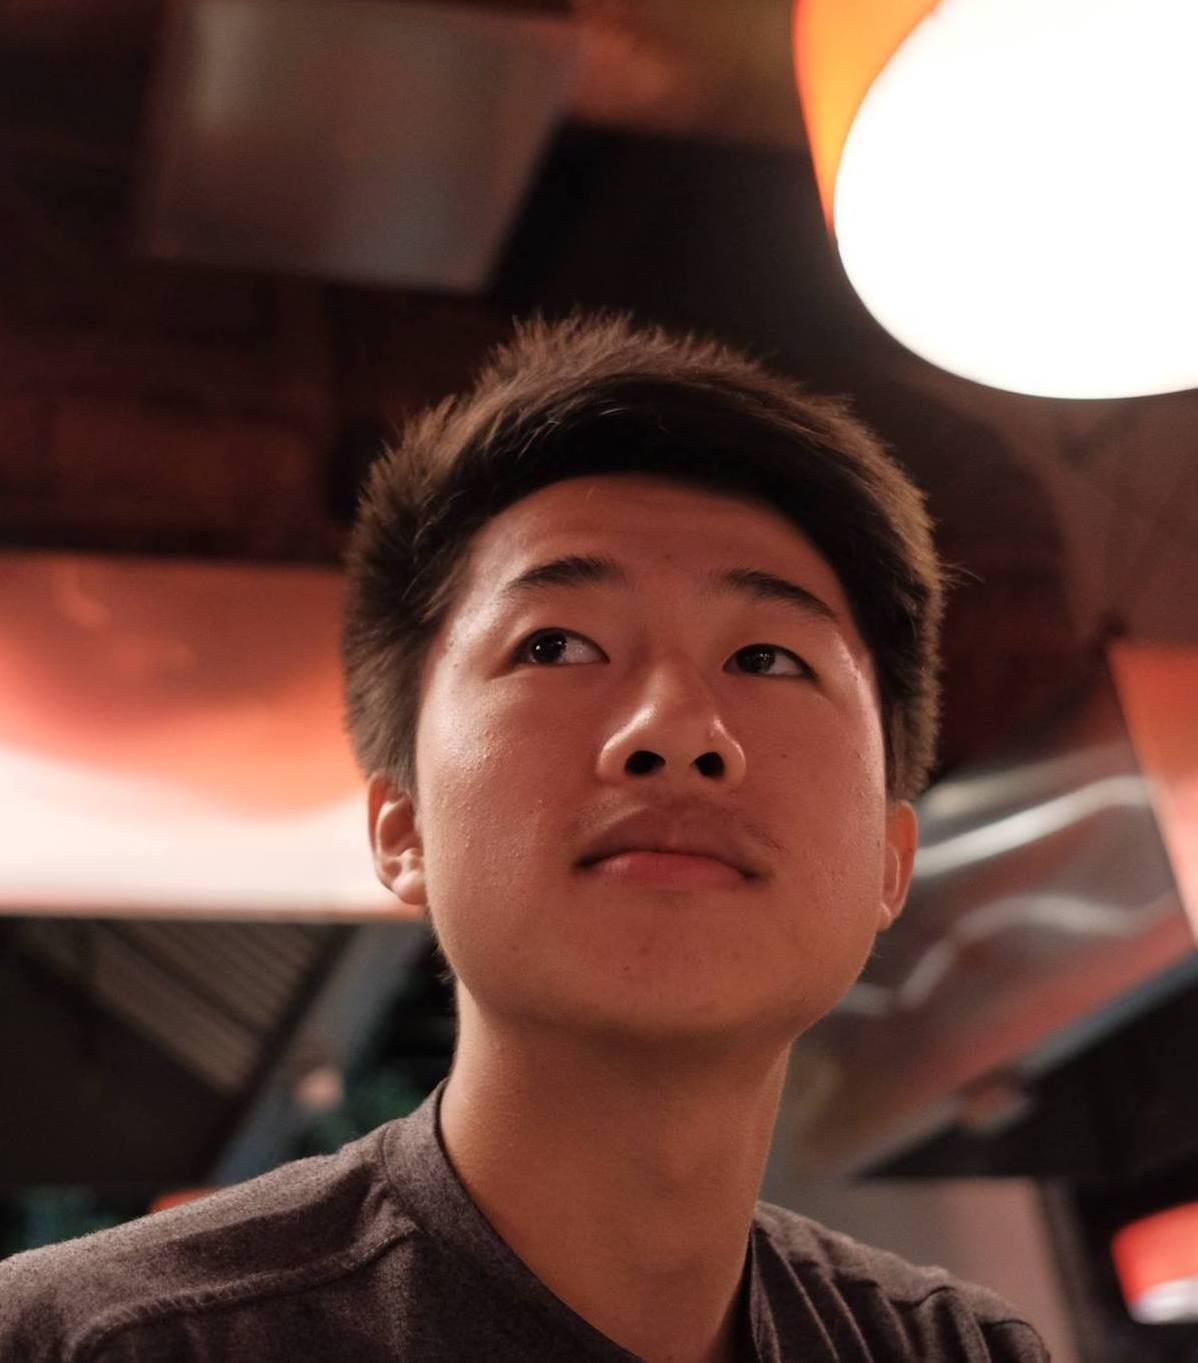
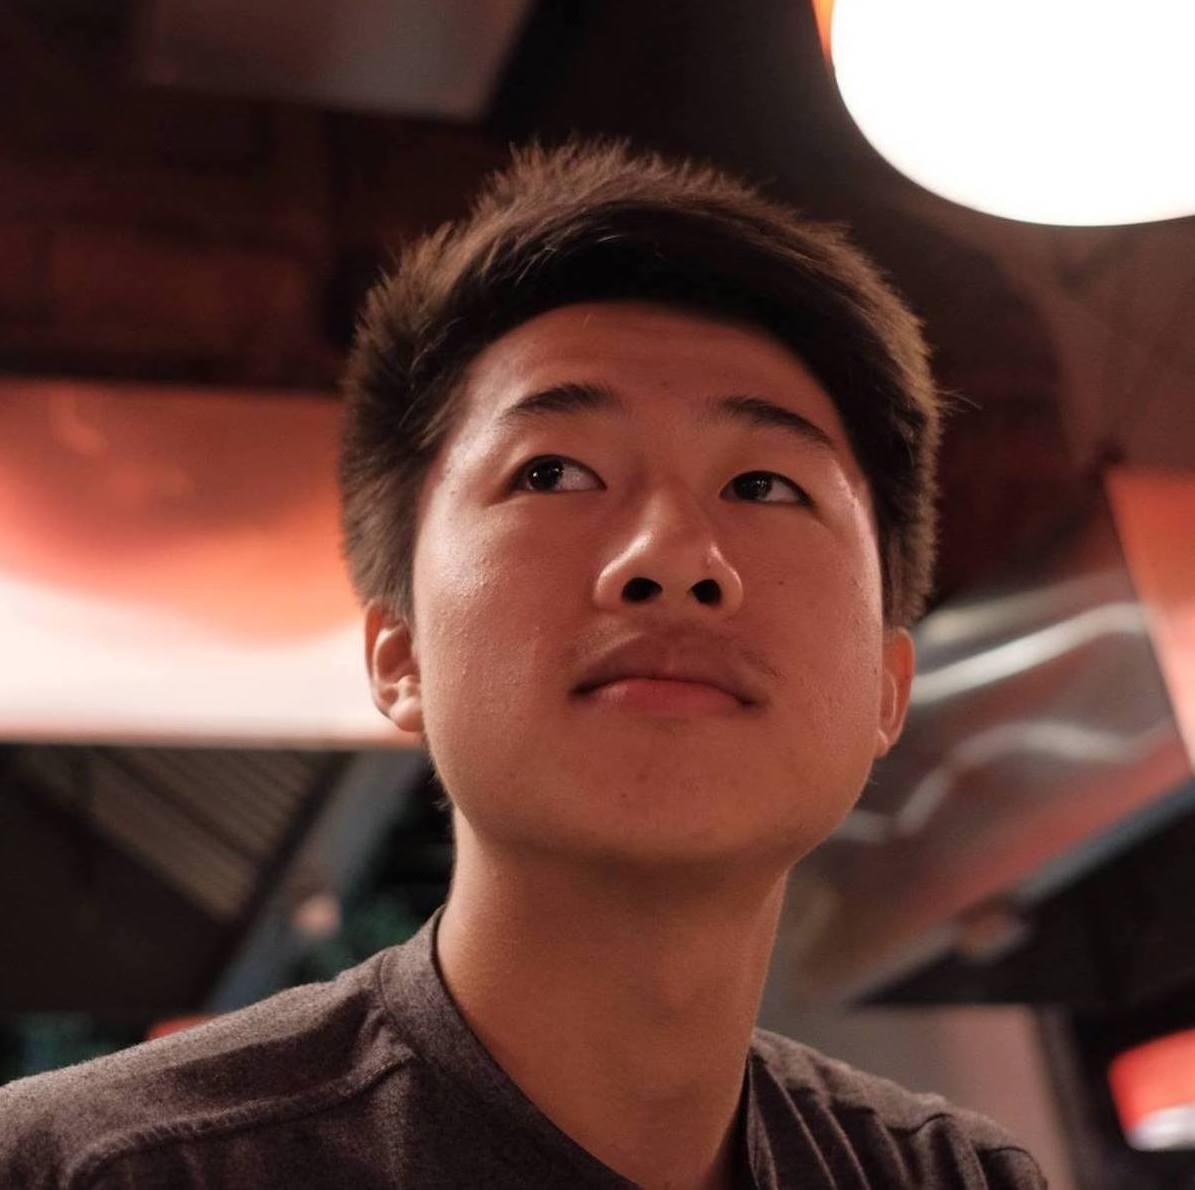
Implemented a sea background and profile picture with a circle border

diff --git a/CSS/style.css b/CSS/style.css
@@ -3,52 +3,10 @@ body {
 	
 }
 
+/* No gaps in between text and photos */
 body, html {
 	height: 100%;
 	margin: 0;
-}
-
-.background {
-	position: relative;
-	text-align: center;
-	color: white;
-}
-
-/* Wilson's Profile Picture Class */
-.profilepic {
-	position: absolute;
-	top: 25%;
-	left: 50%;
-	transform: translate(-50%, -50%);
-}
-
-/* Wilson Chung Header Custom Font */
-
-h1 {
-	font-size: 50px;
-	font-family: 'Roboto', sans-serif;
-	text-align: center;
-}
-
-/* Wilson Chung Header Class */
-.center {
-	position: absolute;
-	top: 50%;
-	left: 50%;
-	transform: translate(-50%, -50%);
-}
-
-.bg { 
-    /* The image used */
-    background-image: url('assets/Pictures/SeaBackground.jpg');
-
-    /* Full height */
-    height: 100%; 
-
-    /* Center and scale the image nicely */
-    /*background-position: center;
-    background-repeat: no-repeat; 
-    background-size: cover; */
 }
 
 img {
@@ -60,10 +18,60 @@ img {
 	width: 100%;
 
 	/* makes a circle border */
-	 border-radius: 0%; 
+	border-radius: 0%; 
 	
+} 
+
+.background {
+	position: relative;
+	text-align: center;
+	color: white;
 }
 
+/* Wilson's Profile Picture Class */
+.profilepic {
+	position: absolute;
+	top: 35%;
+	left: 50%;
+	transform: translate(-50%, -50%);
+	width: 25%;
+}
+
+/* Wilson's Profile Picture Circle Border */
+.profilepic img {
+
+	border-radius: 50%;
+}
+
+/* Wilson Chung Name Header Class */
+.namecenter {
+	position: absolute;
+	top: 55%;
+	left: 50%;
+	transform: translate(-50%, -50%);
+}
+
+/* Wilson Chung Name Header Custom Font */
+h1 {
+	font-size: 50px;
+	font-family: 'Roboto', sans-serif;
+	text-align: center;
+	font-weight: normal;
+}
+
+
+.bg { 
+    /* The image used */
+    /*background-image: url('assets/Pictures/SeaBackground.jpg');*/
+
+    /* Full height */
+    /*height: 100%; */
+
+    /* Center and scale the image nicely */
+    /*background-position: center;
+    background-repeat: repeat-y; 
+    background-size: cover; */
+}
 
 /* Styling for social media icons */
 .fa {
@@ -81,7 +89,7 @@ img {
     opacity: 0.7;
 }
 
-
+/* Linkedin Social Media Icon Class */
 .fa-linkedin {
   background: #007bb5;
   color: white;

diff --git a/index.html b/index.html
@@ -16,10 +16,12 @@
 
 
 		<div class = "background">
-			<img src="assets/Pictures/SeaBackground.jpg" style ="Background">
+			<div>
+				<img src="assets/Pictures/SeaBackground.jpg" style ="Sea Background">
+			</div>
 			<header>
 				<div class="profilepic"><img src="assets/Pictures/WilsonProfilePic.jpg" style ="Wilson's Profile Picture"></div>
-				<div class="center"><h1>Wilson Chung</h1></div>
+				<div class="namecenter"><h1>Wilson Chung</h1></div>
 			</header>
 		</div>
 
@@ -30,17 +32,13 @@
 			<link rel="stylesheet" href="https://cdnjs.cloudflare.com/ajax/libs/font-awesome/4.7.0/css/font-awesome.min.css">
 
 			<div>
-
 				<!-- LinkedIn logo -->
-				<a href="#" class="fa fa-linkedin"></a>
-
+				<li><a href="#" class="fa fa-linkedin"></a></li>
 			</div>
 
 			<div>
-
 				<!-- GitHub logo -->
-				<i class="fa fa-github" style="font-size:60px"></i>
-
+				<li><i class="fa fa-github" style="font-size:60px"></i></li>
 			</div>
 
 		</div>
